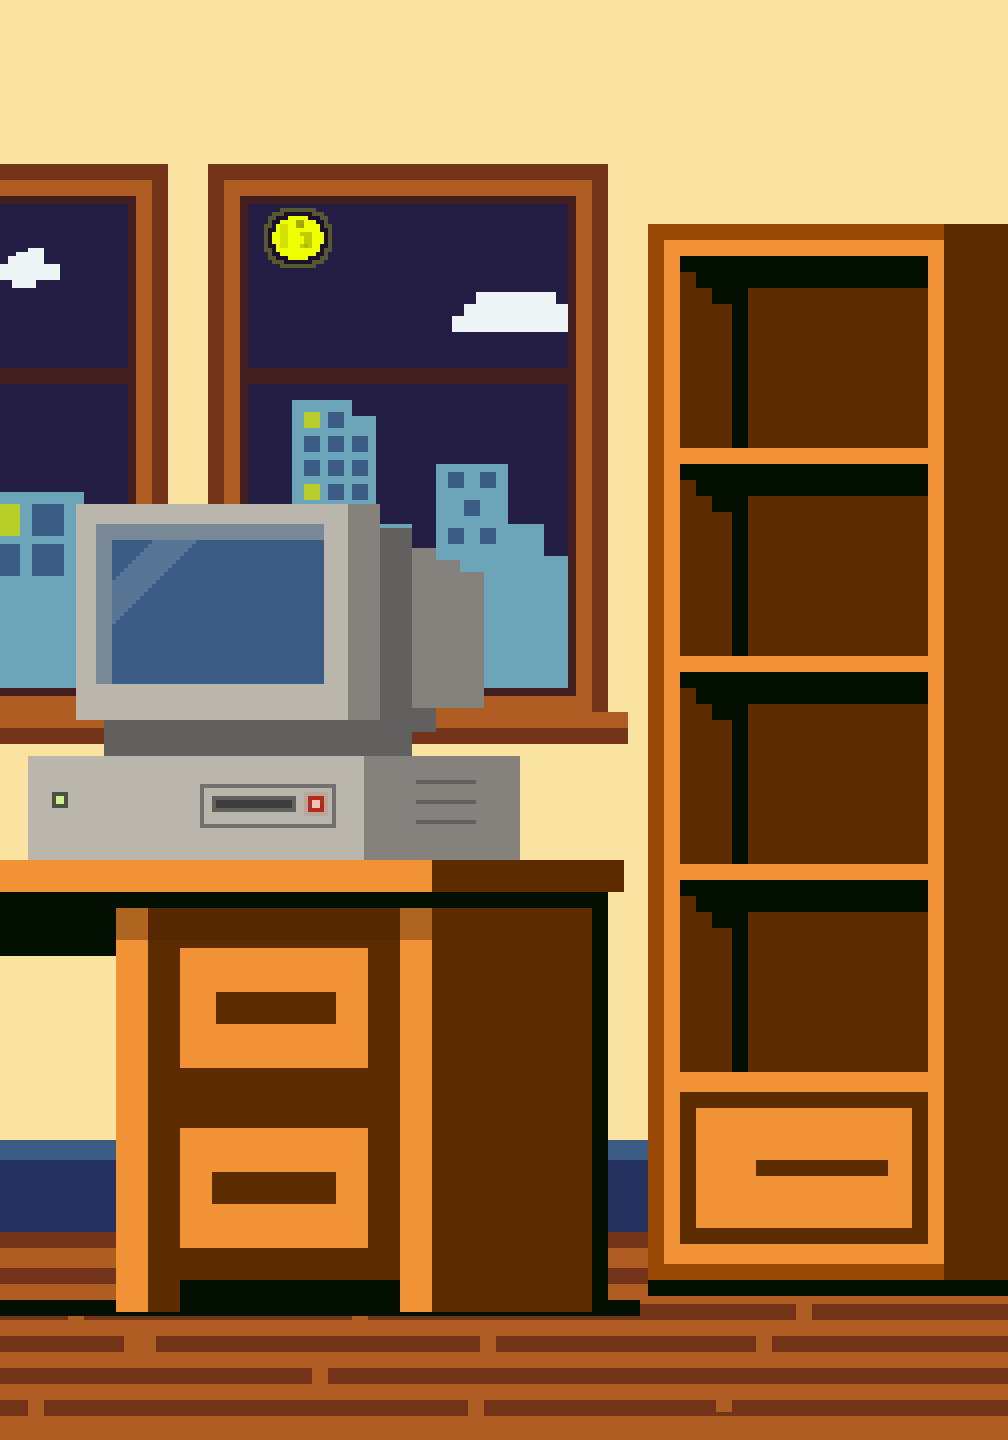
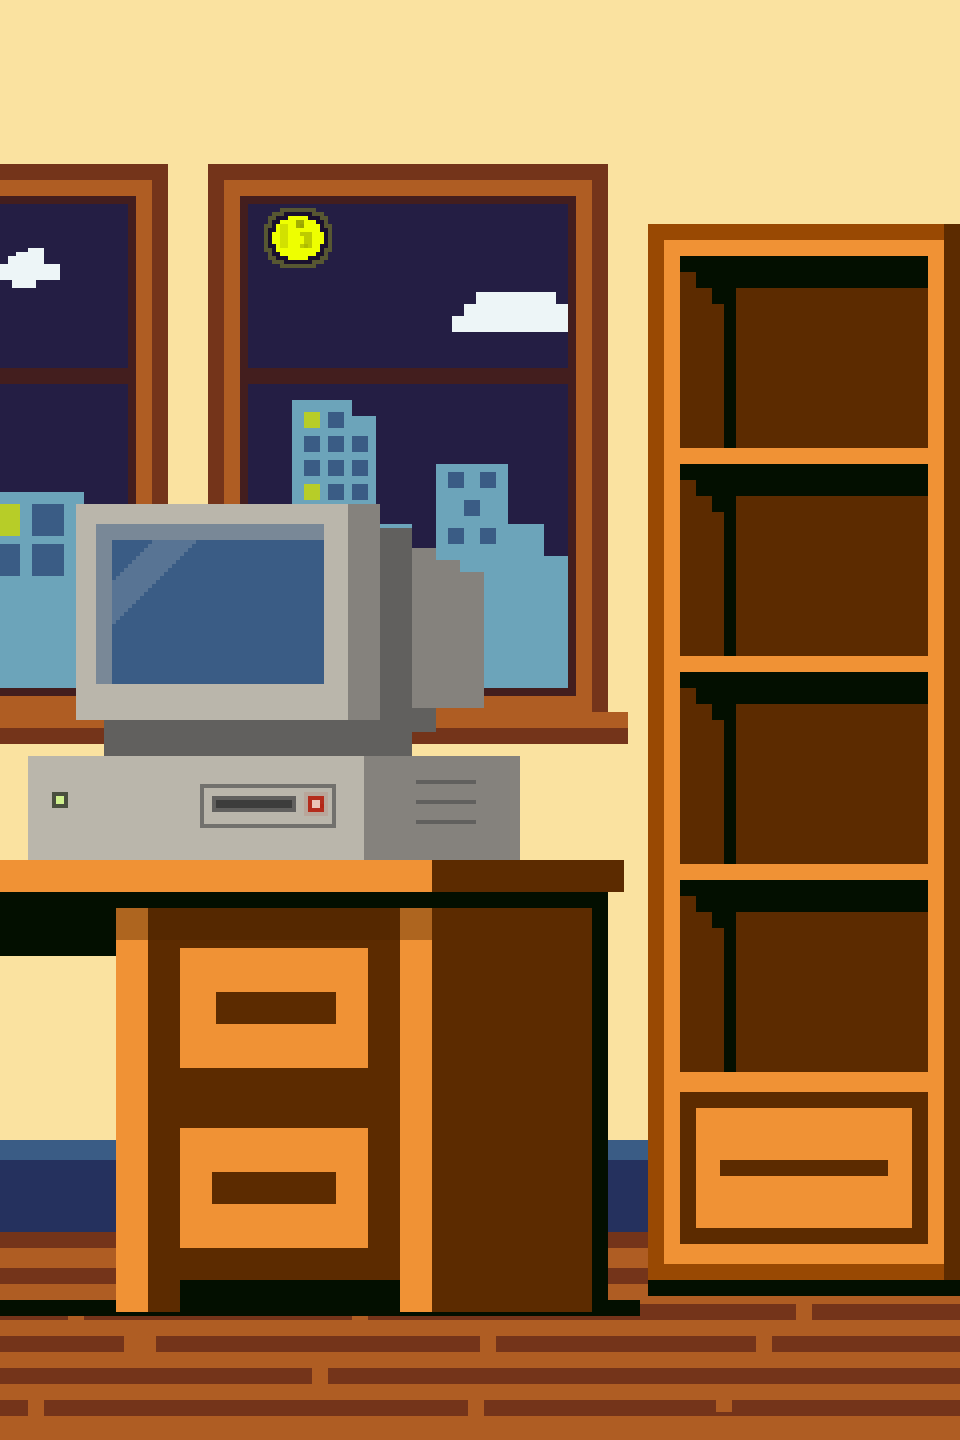
main

diff --git a/src/phaser/PhaserGame.tsx b/src/phaser/PhaserGame.tsx
@@ -13,7 +13,7 @@ export const PhaserGame: React.FC<{ onNavigate?: (path: string) => void }> = ({ 
     // ✅ základní plátno hry podle orientace (bez zbytečných vrstev navíc)
     const isTall = window.innerHeight > window.innerWidth;
     const BASE = isTall
-      ? { w: 1008, h: 1440 } // tvoje portrait scéna
+      ? { w: 960, h: 1440 } // tvoje portrait scéna
       : { w: 2560, h: 1440 }; // tvoje landscape scéna
 
     const config: Phaser.Types.Core.GameConfig = {